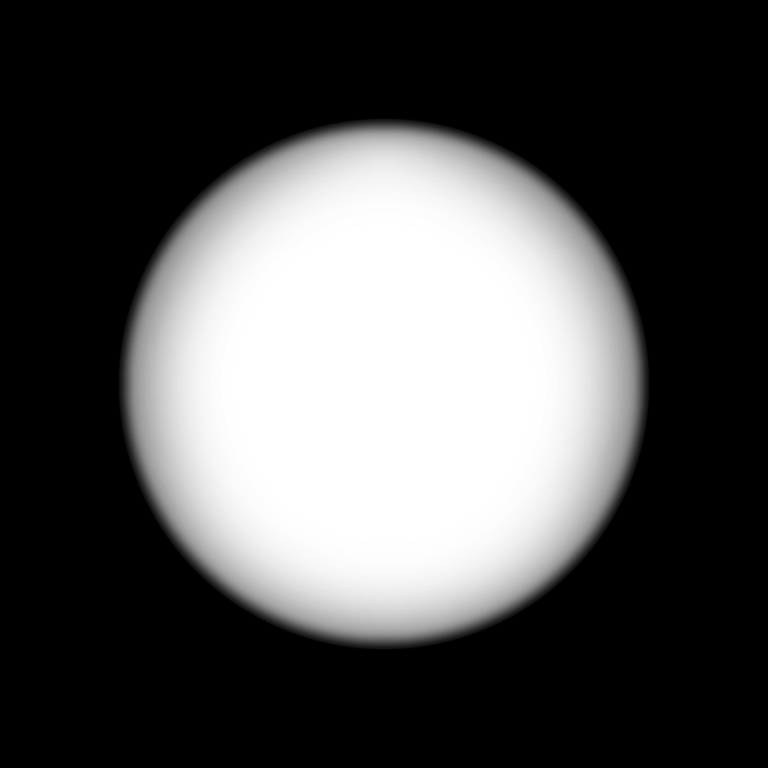
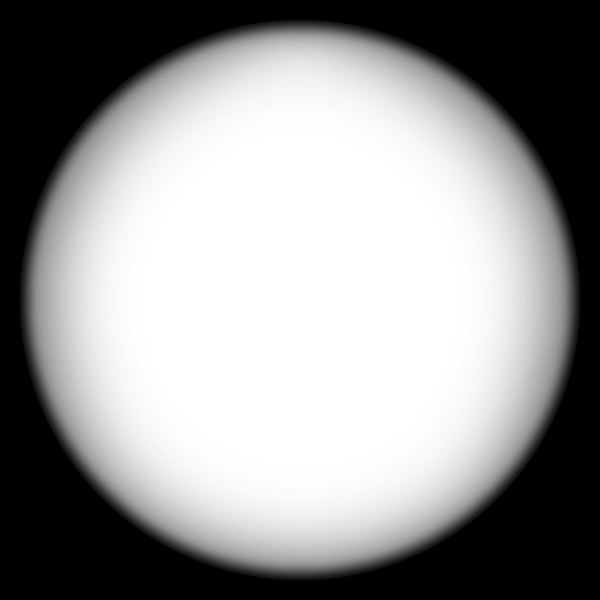
alphawheel fix

diff --git a/src/AlphaWheel.cpp b/src/AlphaWheel.cpp
@@ -92,21 +92,109 @@ void AlphaWheel::setRects()
 	}
 }
 
+void AlphaWheel::setVerts()
+{
+	mTotalVertices = 54;
+	delete[] mVerts; 
+	mVerts = NULL;
+	mVerts = new VertexData[mTotalVertices];
+	
+	
+	float W	= mInterfaceSize.x;
+	float H = mInterfaceSize.y;
+	float CW = W/2;
+	float CH = H/2;
+	float L = ( W - mAlphaRadius * 2.0f )/2;
+	float T = ( H - mAlphaRadius * 2.0f )/2;
+	float R = L + mAlphaRadius * 2.0f;
+	float B = T + mAlphaRadius * 2.0f;
+	
+	vector<Vec2i> positions;
+	positions.push_back( Vec2i( 0 - CW, 0 - CH ) );
+	positions.push_back( Vec2i( L - CW, 0 - CH ) );
+	positions.push_back( Vec2i( R - CW, 0 - CH ) );
+	positions.push_back( Vec2i( W - CW, 0 - CH ) );
+	
+	positions.push_back( Vec2i( 0 - CW, T - CH ) );
+	positions.push_back( Vec2i( L - CW, T - CH ) );
+	positions.push_back( Vec2i( R - CW, T - CH ) );
+	positions.push_back( Vec2i( W - CW, T - CH ) );
+	
+	positions.push_back( Vec2i( 0 - CW, B - CH ) );
+	positions.push_back( Vec2i( L - CW, B - CH ) );
+	positions.push_back( Vec2i( R - CW, B - CH ) );
+	positions.push_back( Vec2i( W - CW, B - CH ) );
+	
+	positions.push_back( Vec2i( 0 - CW, H - CH ) );
+	positions.push_back( Vec2i( L - CW, H - CH ) );
+	positions.push_back( Vec2i( R - CW, H - CH ) );
+	positions.push_back( Vec2i( W - CW, H - CH ) );
+	
+	vector<Vec2f> textures;
+	textures.push_back( Vec2f( 0, 0 ) );
+	textures.push_back( Vec2f( 0, 0 ) );
+	textures.push_back( Vec2f( 1, 0 ) );
+	textures.push_back( Vec2f( 1, 0 ) );
+	
+	textures.push_back( Vec2f( 0, 0 ) );
+	textures.push_back( Vec2f( 0, 0 ) );
+	textures.push_back( Vec2f( 1, 0 ) );
+	textures.push_back( Vec2f( 1, 0 ) );
+	
+	textures.push_back( Vec2f( 0, 1 ) );
+	textures.push_back( Vec2f( 0, 1 ) );
+	textures.push_back( Vec2f( 1, 1 ) );
+	textures.push_back( Vec2f( 1, 1 ) );
+	
+	textures.push_back( Vec2f( 0, 1 ) );
+	textures.push_back( Vec2f( 0, 1 ) );
+	textures.push_back( Vec2f( 1, 1 ) );
+	textures.push_back( Vec2f( 1, 1 ) );
+	
+	int indices[54] = { 0, 1, 4,
+					  1, 5, 4,
+					  1, 2, 5,
+					  2, 6, 5,
+					  2, 3, 6,
+					  3, 7, 6,
+					  4, 5, 8, 
+					  5, 9, 8,
+					  5, 6, 9, 
+					  6, 10, 9, 
+					  6, 7, 10, 
+					  7, 11, 10,
+					  8, 9, 12, 
+					  9, 13, 12, 
+					  9, 10, 13, 
+					  10, 14, 13, 
+					  10, 11, 14, 
+					  11, 15, 14 };
+	
+	int vIndex = 0;
+	for( int i=0; i<54; i++ ){
+		mVerts[vIndex].vertex	= positions[indices[i]];
+		mVerts[vIndex].texture	= textures[indices[i]];
+		
+		vIndex ++;
+	}
+}
+
 void AlphaWheel::setInterfaceOrientation( const Orientation &orientation )
 {
     mInterfaceOrientation = orientation;
     mOrientationMatrix	= getOrientationMatrix44( mInterfaceOrientation, getWindowSize() );
-    Vec2f interfaceSize = getWindowSize();
+    mInterfaceSize = getWindowSize();
     
 	mAlphaRadius = 300.0f;
     if ( isLandscapeOrientation( mInterfaceOrientation ) ) {
-        interfaceSize = interfaceSize.yx(); // swizzle it!
-		mAlphaRadius = 280.0f;
+        mInterfaceSize = mInterfaceSize.yx(); // swizzle it!
+		mAlphaRadius = 270.0f;
     }
     
-    mInterfaceCenter = interfaceSize * 0.5f;
+    mInterfaceCenter = mInterfaceSize * 0.5f;
 	
 	setRects();
+	setVerts();
 }
 
 bool AlphaWheel::touchesBegan( TouchEvent event )
@@ -218,12 +306,11 @@ void AlphaWheel::draw( float *numberAlphaPerChar )
 		glPushMatrix();
 		glMultMatrixf( mOrientationMatrix );
 
+		gl::color( Color::white() );
 		gl::translate( mInterfaceCenter );
-		gl::scale( Vec3f( mWheelScale + 1.0f, mWheelScale + 1.0f, 1.0f ) );	
-        
+		gl::scale( Vec3f( mWheelScale + 1.0f, mWheelScale + 1.0f, 1.0f ) );
 		drawWheel();
 		
-		gl::color( Color::white() );
 		for( int i=0; i<27; i++ ){
 			float c = numberAlphaPerChar[i];
 			if( c > 0.0f ){
@@ -244,32 +331,45 @@ void AlphaWheel::draw( float *numberAlphaPerChar )
 
 void AlphaWheel::drawWheel()
 {
-    float wMask = mWheelTex.getWidth() * 0.5f;
-    float hMask = mWheelTex.getHeight() * 0.5f;
-
-    float c = 1.0f - mWheelScale;
-    gl::color( ColorA( c, c, c, c ) );
-    
-    mWheelTex.enableAndBind();
-    gl::drawSolidRect( Rectf( -wMask, -hMask, wMask, hMask ) );
-    mWheelTex.disable();    
+	mWheelTex.enableAndBind();
+	glEnableClientState( GL_VERTEX_ARRAY );
+	glEnableClientState( GL_TEXTURE_COORD_ARRAY );
 	
-    // TODO: batch this geometry, adapt bloom::gl::batchRect() for solid fills    
-    if ( isLandscapeOrientation(mInterfaceOrientation) ) {
-        Vec2f interfaceSize = getWindowSize().yx(); // SWIZ!
-        gl::color( Color::black() );
-        // left bar, relative to center:
-        gl::drawSolidRect( Rectf( -interfaceSize.x/2, -interfaceSize.y/2, -wMask, hMask ) );
-        // right bar, relative to center:
-        gl::drawSolidRect( Rectf( wMask, -interfaceSize.y/2, interfaceSize.x/2, hMask ) );
-    } else {
-		Vec2f interfaceSize = getWindowSize().xy();
-		gl::color( Color::black() );
-        // top bar, relative to center:
-        gl::drawSolidRect( Rectf( -interfaceSize.x/2, -interfaceSize.y/2, interfaceSize.x/2, -hMask ) );
-        // bottom bar, relative to center:
-        gl::drawSolidRect( Rectf( -interfaceSize.x/2, hMask, interfaceSize.x/2, interfaceSize.y/2 ) );
-	}
+	glVertexPointer( 2, GL_FLOAT, sizeof(VertexData), mVerts );
+	glTexCoordPointer( 2, GL_FLOAT, sizeof(VertexData), &mVerts[0].texture );
+	
+	glDrawArrays( GL_TRIANGLES, 0, mTotalVertices );
+	
+	glDisableClientState( GL_VERTEX_ARRAY );
+	glDisableClientState( GL_TEXTURE_COORD_ARRAY );
+	mWheelTex.disable();
+	
+//    float wMask = mWheelTex.getWidth() * 0.5f;
+//    float hMask = mWheelTex.getHeight() * 0.5f;
+//
+//    float c = 1.0f - mWheelScale;
+//    gl::color( ColorA( c, c, c, c ) );
+//    
+//    mWheelTex.enableAndBind();
+//    gl::drawSolidRect( Rectf( -wMask, -hMask, wMask, hMask ) );
+//    mWheelTex.disable();    
+//	
+//    // TODO: batch this geometry, adapt bloom::gl::batchRect() for solid fills    
+//    if ( isLandscapeOrientation(mInterfaceOrientation) ) {
+//        Vec2f interfaceSize = getWindowSize().yx(); // SWIZ!
+//        gl::color( Color::black() );
+//        // left bar, relative to center:
+//        gl::drawSolidRect( Rectf( -interfaceSize.x/2, -interfaceSize.y/2, -wMask, hMask ) );
+//        // right bar, relative to center:
+//        gl::drawSolidRect( Rectf( wMask, -interfaceSize.y/2, interfaceSize.x/2, hMask ) );
+//    } else {
+//		Vec2f interfaceSize = getWindowSize().xy();
+//		gl::color( Color::black() );
+//        // top bar, relative to center:
+//        gl::drawSolidRect( Rectf( -interfaceSize.x/2, -interfaceSize.y/2, interfaceSize.x/2, -hMask ) );
+//        // bottom bar, relative to center:
+//        gl::drawSolidRect( Rectf( -interfaceSize.x/2, hMask, interfaceSize.x/2, interfaceSize.y/2 ) );
+//	}
 }
 
 void AlphaWheel::drawAlphaChar()

diff --git a/src/AlphaWheel.h b/src/AlphaWheel.h
@@ -22,9 +22,16 @@ class AlphaWheel {
 public:
 	AlphaWheel();
 	~AlphaWheel();
+	
+	struct VertexData {
+        ci::Vec2f vertex;
+        ci::Vec2f texture;
+    };
+	
 	void	setup( ci::app::AppCocoaTouch *app, const ci::app::Orientation &orientation, const ci::Font &font );
 	void	initAlphaTextures( const ci::Font &font );
 	void	setRects();
+	void	setVerts();
 	bool	touchesBegan( ci::app::TouchEvent event );
 	bool	touchesMoved( ci::app::TouchEvent event );
 	bool	touchesEnded( ci::app::TouchEvent event );
@@ -76,6 +83,9 @@ private:
     
     ci::app::Orientation       mInterfaceOrientation;
     ci::Matrix44f              mOrientationMatrix;
-    ci::Vec2f                  mInterfaceCenter;
+    ci::Vec2f                  mInterfaceSize, mInterfaceCenter;
+
+	int mTotalVertices;
+	VertexData *mVerts;
 };
 

diff --git a/src/World.cpp b/src/World.cpp
@@ -278,7 +278,7 @@ void World::repulseNodes()
 				float distSqrd = dir.lengthSquared();
 				
 				if( distSqrd > 0.0f ){
-					float F = 1.0f/distSqrd;
+					float F = constrain( 1.0f/distSqrd, 0.0f, 1.0f );
 					dir = F * dir.normalized() * 0.75f;
 					dir.y *= 0.7f;
 					
